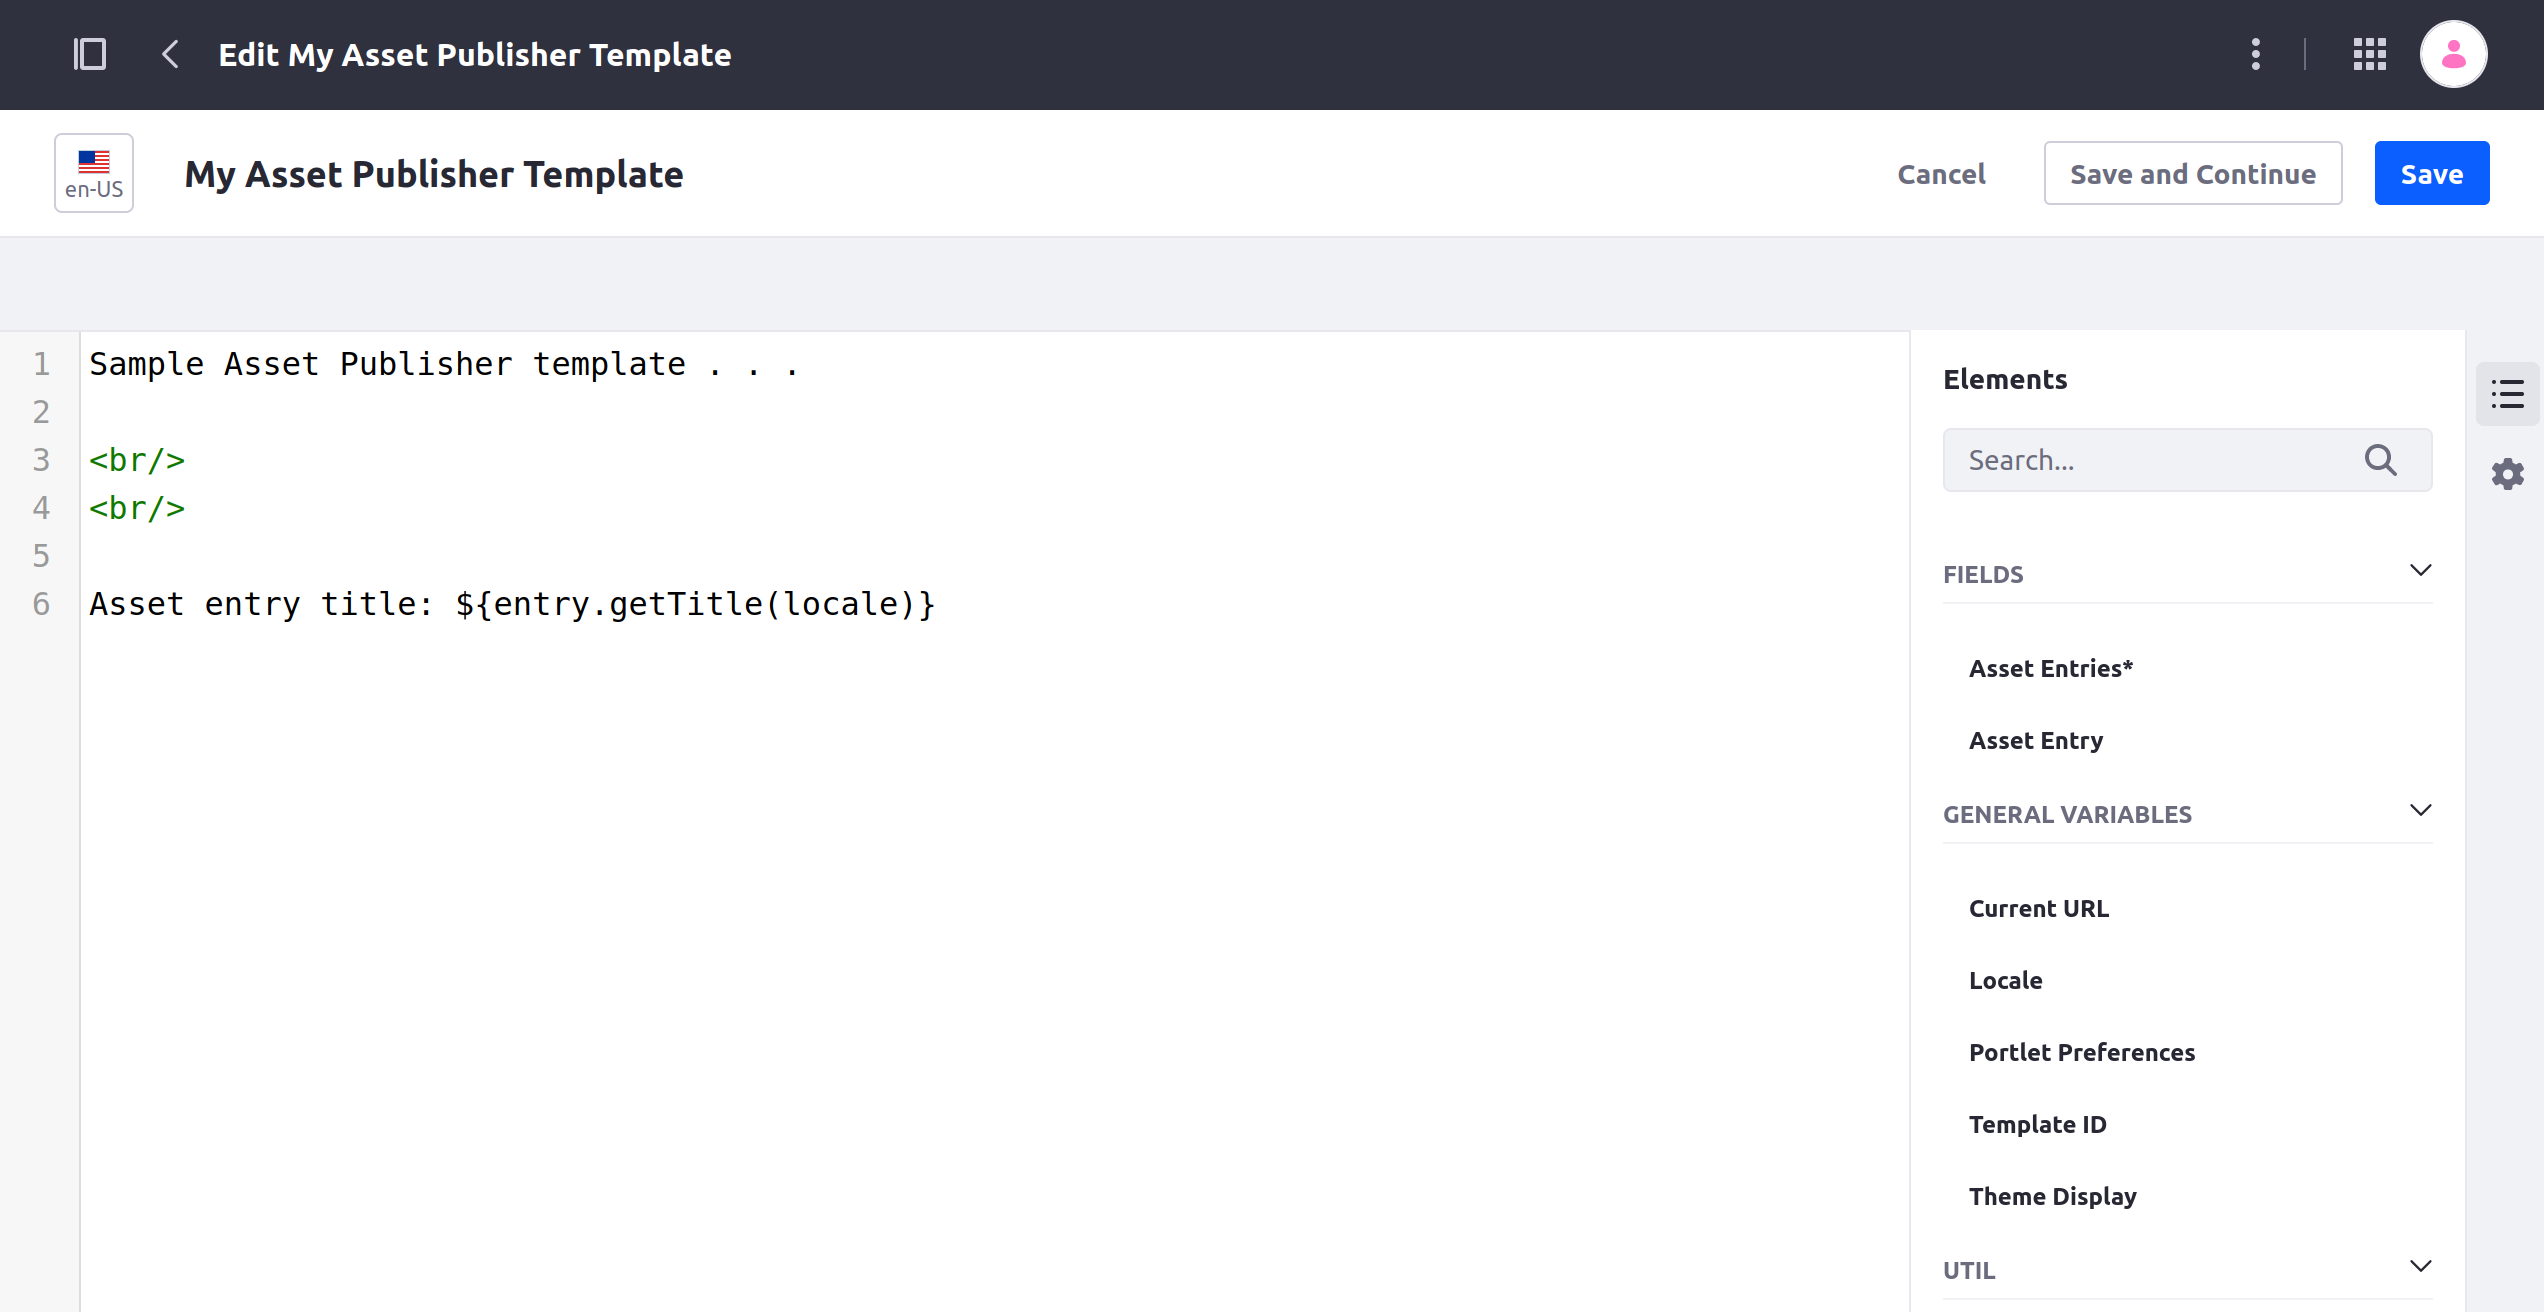
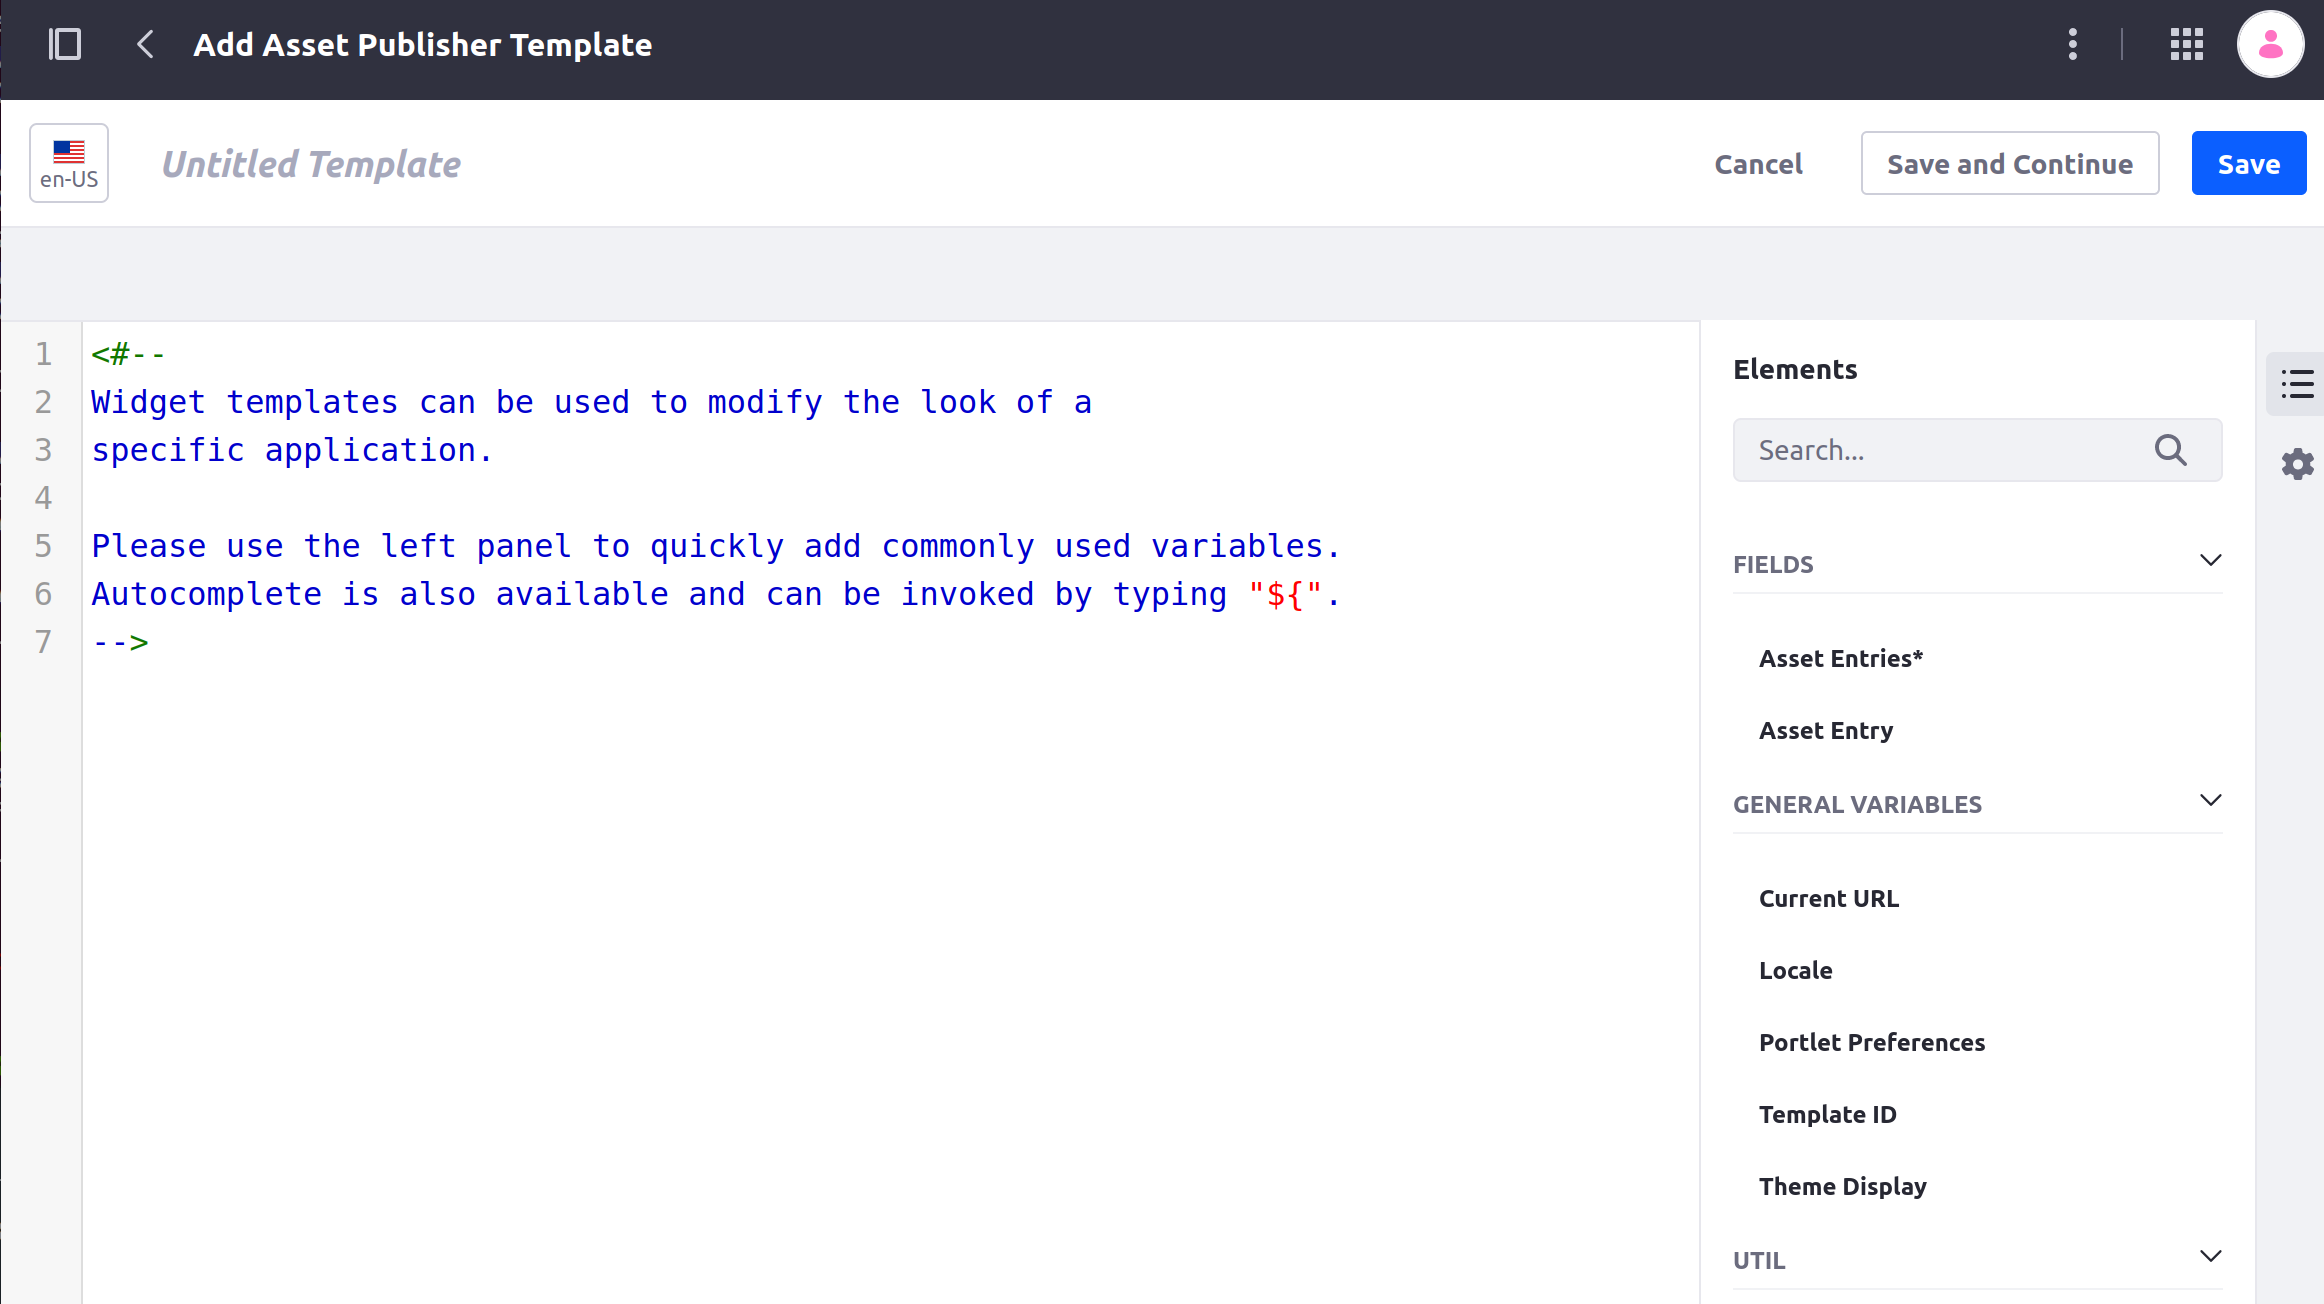
LRDOCS-10965 Updates per reviewer feedback

diff --git a/docs/dxp/latest/en/site-building/displaying-content/additional-content-display-options/styling-widgets-with-widget-templates.md b/docs/dxp/latest/en/site-building/displaying-content/additional-content-display-options/styling-widgets-with-widget-templates.md
@@ -1,34 +1,28 @@
 # Styling Widgets with Widget Templates
 
-Widget templates are used to customize the appearance and functionality of various existing widgets. Creating a widget template allows you to use a script to adapt the widget appearance and functionality. You can create a widget template for many widgets available out-of-the-box with Liferay, such as the _Asset Publisher_ and _Media Gallery_ widgets.
+Widget templates are used to customize the appearance and functionality of out-of-the-box widgets, such as the _Asset Publisher_ and _Media Gallery_ widgets.
 
 ## Creating a Widget Template
 
-Follow these steps to create a widget template:
+1. From the Site Menu ![Site Menu](../../../images/icon-product-menu.png), click _Design_ &rarr; _Templates_.
 
-1. From the Product Menu, click _Design_ &rarr; _Templates_ &rarr; the _Widget Templates_ tab at the top of the page.
+1. Select the _Widget Templates_ tab at the top of the page.
 
-    ![The Widget Templates page.](./styling-widgets-with-widget-templates/images/01.png)
+    ![Access the Widget Templates page from the Templates application.](./styling-widgets-with-widget-templates/images/01.png)
 
 1. Click the _Add_ (![Add icon](../../../images/icon-add.png)) button, then select which widget to create a widget template for (e.g., _Asset Publisher_).
 
-    ![The Widget Template creation page.](./styling-widgets-with-widget-templates/images/02.png)
+    ![The Widget Template creation page provides controls to easily add fields or variables to use.](./styling-widgets-with-widget-templates/images/02.png)
 
 1. Add a name for your widget template.
 
-1. Click into the body of the template editor.
-
-1. Click one of the fields in the _Fields_ menu to insert that field into the editor. The value of the field will be displayed when your widget template is used.
-
-    ```{note}
-    Clicking any of the fields in the menu will insert the field name wherever the cursor is. You can also begin typing a field name yourself (starting with "${") to show suggestions for auto-completion.
-    ```
+1. Enter the desired content for your widget template. You can click any of the entries in the menu on the right side of the screen to insert a field, variable, or utility into the editor (or start typing a field name starting with `${` to see suggestions as you type).
 
 1. Click _Save_ to complete the template.
 
-## Applying a Widget Template
+This creates a new widget template, which you can apply to the corresponding type of widget on a page.
 
-Once you have a widget template ready for a widget on one of your pages, follow these steps:
+## Applying a Widget Template
 
 1. Click the Actions (![Actions icon](../../../images/icon-actions.png)) icon on the appropriate widget, then click _Configuration._
 
